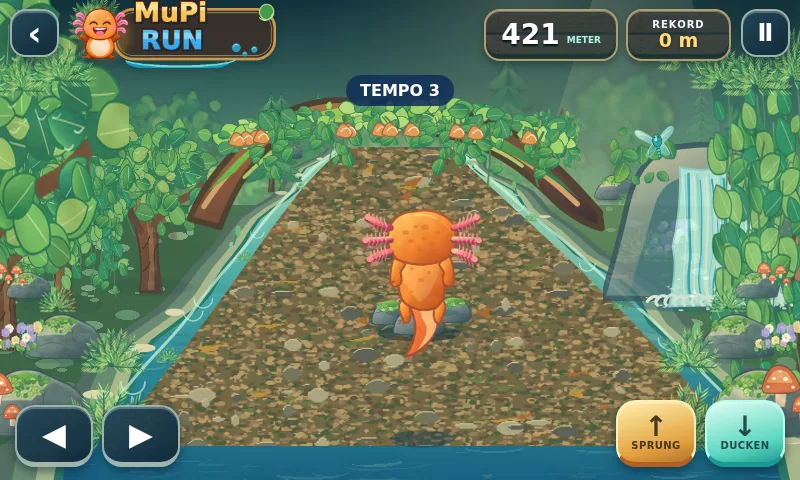
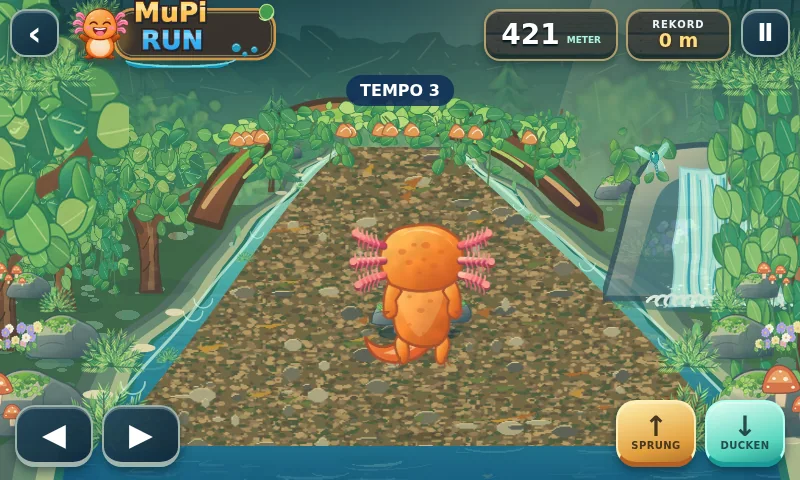
fix(mupi-run): anchor axolotl feet to terrain and animate running legs

diff --git a/examples/mupi-run/app.js b/examples/mupi-run/app.js
@@ -8,7 +8,8 @@
   // Optimized transparent local art sprites; no online assets or SVG engine needed at runtime.
   const art = Object.create(null);
   const spriteNames = [
-    'mupi-back','tree-oak','tree-fir','tree-willow','fern','flower','mushroom',
+    'mupi-back','mupi-back-run-left','mupi-back-run-right',
+    'tree-oak','tree-fir','tree-willow','fern','flower','mushroom',
     'reeds','rock','log','branch','vine','splash','stump','basket','boot','backdrop',
     'foreground','fallen-arch','waterfall','water-caustics','dragonfly',
     'duck-bridge','stepping-stones','rail-post','wood-deck','forest-earth'
@@ -279,30 +280,81 @@
       }
     }
   }
+  // Match the illustration's rear-foot contact (SVG y=339) to the world plane.
+  // Height=210 maps SVG y=339 to a bottom offset of 53.54 pixels.
+  // The old render anchored transparent SVG padding/tail to the floor
+  // and accidentally left both feet roughly 45 pixels above the ground.
+  const MUPI_HEIGHT=210;
+  const MUPI_WIDTH=172;
+  const MUPI_FOOT_BOTTOM=MUPI_HEIGHT*(455-339)/455;
   function muPi(x,foot,jump,duck,time) {
-    const bounce=jump===0&&!duck ? Math.abs(Math.sin(time*15)) * 4.2 : 0;
+    const jumping=jump>1;
+    const surface=game.terrainAt(state.distance);
+    const wave=Math.sin(time*15.2);
+    const bounce=jumping||duck||state.phase!=='running'?0:Math.abs(wave)*1.2;
     const y=foot-jump-bounce;
-    // The ground shadow stays on the stream surface during a jump.
-    const air=Math.min(1,jump/82);
-    ellipse(x,foot+4,49-air*20,12-air*4,'#173c4b78');
-    if(jump<22 && !duck && state.phase==='running') {
-      for(let i=-2;i<=2;i++){
-        const beat=(time*13.6+i*.42)%1;
-        const sx=x+i*14+Math.sin(time*13+i)*6;
-        const sy=foot-7-13*beat;
-        ellipse(sx,sy,3+beat*1.4,5+beat*2,'#e4fffbbe');
+    const elevation=Math.min(1,jump/82);
+    // Contact shadow stays on the floor; it gets narrower, softer and
+    // more transparent when MuPi actually jumps above it.
+    ctx.save();
+    ctx.globalAlpha=1-elevation*.58;
+    ellipse(x,foot+2,31-elevation*8,6-elevation*1.8,
+      surface==='river'?'#133f557a':'#2c291f83');
+    ctx.restore();
+
+    // Foot-specific environmental contact: splashing in the river;
+    // dusty puffs on the forest path; planted feet on the wooden deck.
+    const planted=x+(wave>0?19:-19);
+    if(!jumping && state.phase==='running') {
+      if(surface==='river'){
+        ctx.save();
+        ctx.strokeStyle='#d7fff2c1';
+        ctx.lineWidth=2;
+        ctx.beginPath();ctx.ellipse(x,foot+1,31+Math.abs(wave)*5,6.4,0,0,Math.PI*2);ctx.stroke();
+        const splash=Math.abs(wave);
+        for(let i=0;i<4;i++){
+          const side=i%2===0?1:-1;
+          const dx=side*(16+i*5)+Math.sin(time*9+i)*4;
+          const rise=(i*7.7+time*21)%27;
+          ellipse(planted+dx*.65,foot-2-rise*.58,1.7+(i%2),2.1+(i%3),
+            i%2?'#ecffebbe':'#98e8f1c9');
+        }
+        ctx.restore();
+      } else if(surface==='forest'){
+        for(let i=0;i<3;i++){
+          const rise=(time*14+i*8.7)%23;
+          ellipse(planted+(i-1)*10,foot-rise*.65,
+            2.8+i,2.1+i*.45,i%2?'#c4b18a7b':'#e1c89488');
+        }
+      }else{
+        ellipse(planted,foot+.7,14,2.3,'#312c2680');
       }
-      ellipse(x-13,foot-1,34,3,'#ccf9e3ad');
     }
     ctx.save();
     ctx.translate(x,y);
-    // Duck visually shortens the character, but never reveals a smiling face.
-    if(duck)ctx.scale(1,.64);
-    else if(jump===0)ctx.rotate(Math.sin(time*11)*.037);
-    drawArt('mupi-back',0,3,141,171);
+    // Compression is about the FOOT plane, so ducking never makes MuPi float.
+    if(duck)ctx.scale(1,.69);
+    else if(!jumping)ctx.rotate(wave*.018);
+    let sprite='mupi-back';
+    if(state.phase==='running'&&!duck&&!jumping){
+      sprite=wave>=0?'mupi-back-run-left':'mupi-back-run-right';
+    }
+    drawArt(sprite,0,MUPI_FOOT_BOTTOM,MUPI_WIDTH,MUPI_HEIGHT);
     ctx.restore();
+
+    // Foreground water lip partly occludes the planted feet and the curved
+    // tail; it is visibly grounded, never a detached white oval below MuPi.
+    if(!jumping && surface==='river' && state.phase==='running'){
+      ctx.save();
+      ctx.beginPath();ctx.ellipse(x,foot+4,35,6,0,Math.PI,Math.PI*2);
+      ctx.strokeStyle='#d5fff3b0';ctx.lineWidth=2.7;ctx.stroke();
+      ctx.beginPath();
+      ctx.moveTo(planted-12,foot+1);ctx.quadraticCurveTo(planted,foot-3,planted+12,foot+1);
+      ctx.strokeStyle='#f0fff6d6';ctx.lineWidth=2.0;ctx.stroke();
+      ctx.restore();
+    }
   }
-    const hazardSprites={
+  const hazardSprites={
     rock:'rock',boulder:'rock',log:'log',root:'branch',ripple:'splash',boot:'boot',
     stump:'stump',reeds:'reeds',basket:'basket','stepping-stones':'stepping-stones','low-bridge':'duck-bridge',
     branch:'branch',vine:'vine',willow:'vine'

diff --git a/tools/generate_mupi_run_sprites.py b/tools/generate_mupi_run_sprites.py
@@ -274,18 +274,28 @@ def boot():
     return b
 
 
-def back_mupi():
-    # Rear view, six gill stalks exactly: three left and three right. Tail is a real axolotl caudal fin.
-    b=ellipse(187,305,98,13,'#153d46','opacity=".25"')
-    b+=path('M182 198Q124 232 150 281Q173 320 169 356Q165 390 142 422Q186 412 209 377Q247 320 221 270Z',
+def back_mupi(step=0):
+    # Ground-contact reference: planted rear feet end at SVG y≈339.
+    # The running game anchors THAT y to the ground, not the canvas bottom.
+    # Six external feathery gill stalks remain exactly three per side.
+    b=''
+    # Curved muscular caudal fin; pulled sideways so it no longer forms
+    # a narrow third leg hanging toward the old, wrongly placed shadow.
+    b+=path('M179 205Q150 226 149 258Q140 291 108 297Q82 299 64 276Q70 319 113 329Q160 336 192 309Q236 273 224 241Q216 220 207 209Z',
             'url(#tail)','#a84f32',6)
-    b+=path('M190 230Q171 294 199 344Q203 367 175 404Q225 370 227 330Q228 276 208 236Z',
+    b+=path('M178 227Q157 253 157 275Q147 298 103 310Q146 321 181 293Q207 274 198 241Z',
             '#ffdb9b',extra='opacity=".68"')
-    b+=path('M180 319Q199 328 197 345M177 343Q192 357 184 368M173 372Q184 377 175 392','none','#d46735',4,'opacity=".52"')
-    # two backward-pointing feet
+    b+=path('M153 276Q166 285 158 296M130 304Q150 305 164 299M95 313Q113 323 130 320','none','#d46735',4,'opacity=".52"')
+    # Alternating planted and raised feet give a real walk/run cycle.
+    # step is -1/0/1; the planted foot always ends at y≈341.
     for side in [-1,1]:
+        lifted=(step!=0 and side==step)
+        dy=-27 if lifted else 2
+        dx=side*(11 if lifted else -2)
+        b+=f'<g transform="translate({dx} {dy})">'
         b+=path(f'M{188+side*53} 271Q{188+side*70} 283 {188+side*52} 321Q{188+side*47} 339 {188+side*35} 328Q{188+side*27} 311 {188+side*34} 287Z','url(#orange)','#a95632',5)
         b+=path(f'M{188+side*50} 318l{side*12} 17m{-side*12} -17l{side*1} 20','none','#a95632',3)
+        b+='</g>'
     # four-limbed salamander body
     b+=path('M124 198Q113 155 133 122Q153 99 185 111Q229 98 246 129Q267 172 246 217Q254 272 222 293Q184 304 151 285Q121 271 124 198Z',
             'url(#orange)','#a9542f',6)
@@ -385,6 +395,8 @@ def make_cover():
 def main():
     sprites=[
       ('mupi-back',375,455,back_mupi()),
+      ('mupi-back-run-left',375,455,back_mupi(-1)),
+      ('mupi-back-run-right',375,455,back_mupi(1)),
       ('tree-oak',345,350,oak()),
       ('tree-fir',275,330,fir()),
       ('tree-willow',360,350,willow()),

diff --git a/tests/mupi_run_sprite_test.py b/tests/mupi_run_sprite_test.py
@@ -1,0 +1,30 @@
+#!/usr/bin/env python3
+"""Regression checks for MuPi Run grounded rear-view mascot animation."""
+from pathlib import Path
+from PIL import Image, ImageChops
+
+ROOT=Path(__file__).resolve().parents[1]
+ART=ROOT/'examples/mupi-run/art'
+NAMES=('mupi-back','mupi-back-run-left','mupi-back-run-right')
+images=[]
+for name in NAMES:
+    image=Image.open(ART/(name+'.png')).convert('RGBA')
+    assert image.size==(375,455),f'{name}: source dimensions changed'
+    box=image.getchannel('A').getbbox()
+    assert box and 332<=box[3]<=349,f'{name}: feet/tail extend below ground anchor: {box}'
+    # Transparent space below the feet cannot be used as the ground origin.
+    assert image.getchannel('A').crop((0,360,375,455)).getbbox() is None
+    images.append(image)
+
+for image in images[1:]:
+    assert ImageChops.difference(image,images[0]).getbbox(), 'Missing moving leg pose'
+
+# Foot support is calibrated from source y=339, not the image's bottom y=455.
+source_h=455
+drawn_h=210
+foot_source_y=339
+bottom_offset=drawn_h*(source_h-foot_source_y)/source_h
+world_foot=435
+rendered_foot=world_foot+bottom_offset-drawn_h*(source_h-foot_source_y)/source_h
+assert abs(rendered_foot-world_foot)<.001
+print('MuPi foot anchoring and two distinct running poses: PASS')

diff --git a/tools/capture_mupi_run_screenshots.py b/tools/capture_mupi_run_screenshots.py
@@ -97,6 +97,8 @@ async def main():
             await capture('screenshot-duck-bridge.webp')
             await scene(260,[{'lane':0,'item':'stump','kind':'avoid','z':25}],1,'running')
             await capture('screenshot-boardwalk.webp')
+            await scene(248,[],0,'running')
+            await capture('screenshot-ground-contact.webp')
             await scene(418,[{'lane':0,'item':'stepping-stones','kind':'jump','z':26}],0,'jump')
             await capture('screenshot-forest.webp')
             result=await call('Runtime.evaluate',{'expression':'JSON.stringify({phase:window.MuPiRun && document.querySelector("#overlay").classList.contains("hidden"),score:document.querySelector("#distance").textContent,loaded:document.querySelector("#world").width})','returnByValue':True})

diff --git a/tools/generate_mupi_run_atmosphere.py b/tools/generate_mupi_run_atmosphere.py
@@ -300,7 +300,8 @@ def make_cover():
 
 def texture_sprites():
     # Multiscale low-amplitude canvas paper texture, slightly stronger in bright highlights.
-    names=['mupi-back','tree-oak','tree-fir','tree-willow','fern','rock','log','branch',
+    names=['mupi-back','mupi-back-run-left','mupi-back-run-right',
+           'tree-oak','tree-fir','tree-willow','fern','rock','log','branch',
            'vine','flower','mushroom','reeds','splash','stump','basket','boot']
     rr=random.Random(806)
     for name in names:

diff --git a/examples/mupi-run/README.md b/examples/mupi-run/README.md
@@ -1,4 +1,4 @@
-# MuPi Run – spielbarer Wald-/Brücken-Runner (0.4.0)
+# MuPi Run – spielbarer Wald-/Brücken-Runner (0.4.1)
 
 Eigenständige, vollständig offline spielbare MuPiBox-NG-Community-App für **800 × 480 Pixel** (5 Zoll). MuPi läuft aus der **Rückansicht** durch ein flaches, sich windendes Wald-Flussbett: ein orangefarbenes Axolotl mit exakt **drei Kiemenästen links und drei rechts**, eigenem Schweif und Lauf-/Sprung-/Duckanimation. Es gibt keine Fremdspiele, gekauften Assets, CDN- oder Online-Abhängigkeiten.
 
@@ -12,6 +12,8 @@ Die Aufnahmen liegen bewusst **direkt im Anwendungsverzeichnis**.
 
 ![Begehbarer Holzsteg mit Geländer und Hindernissen](screenshot-boardwalk.webp)
 
+![MuPi mit sichtbarem Fußkontakt auf Holzplanken](screenshot-ground-contact.webp)
+
 ![Waldpfad mit Erde und Sprungsteinen](screenshot-forest.webp)
 
 ![MuPi Run beim Sprung über das Flussbett](screenshot-jump.webp)
@@ -24,7 +26,7 @@ Die Screenshots wurden aus dem **wirklich laufenden HTML-Canvas-Spiel** mit Chro
 
 Die Illustrationen sind **eigenständige, freigestellte** PNG-Sprites (transparentes Alpha) und werden als perspektivisch skalierte einzelne Elemente in den Game-Canvas eingesetzt. Sie sind **keine einfachen Canvas-Kreise oder -Rechtecke**:
 
-- **MuPi-Rückansicht:** `art/mupi-back.png`, orangefarbene Haut, Rückenflecken, fransige Kiemen (3 je Seite), Schwanzflosse, Beine und Arme. Kein Gesicht, weil die Kamera hinter MuPi folgt.
+- **MuPi-Rückansicht:** `art/mupi-back.png`, orangefarbene Haut, Rückenflecken, fransige Kiemen (3 je Seite), Schwanzflosse, Beine und Arme. Kein Gesicht, weil die Kamera hinter MuPi folgt. Seit v0.4.1 mit zwei zusätzlichen Bein-/Laufposen `mupi-back-run-left.png` und `mupi-back-run-right.png`. Die Sprite-Füße (Quellpixel y≈339 von 455) sind im Canvas exakt an der Bodenebene verankert; nicht der transparente untere Bildrand. Schwanzflosse seitlich geführt, Bodenschatten direkt unter den Füßen. Wasser-Spritzer nur bei realem Bodenkontakt, auf Waldboden kleine Staubpartikel, auf Holzstegen Tritt-Schatten.
 - **Wald:** Laubbaum, Nadelbaum, Hängeweide, Farn, Schilf, Blumen, Pilze. Mehrschichtiger Waldhintergrund und Sonnenstrahlen.
 - **Fluss:** Organisch gewundenes Wasserbett, transparente animierte Wassertextur mit Lichtbrechung, eingetauchte Steine, weiße Schaumlinien am Ufer und Sonnenreflexe.
 - **Landschaft:** Illustrierter Baumstamm-Bogen, seitlicher Wasserfall, sonnige und schattige Waldschichten, Vordergrundkulisse und schwebende Libelle (keine zusätzlichen Kollisionen).
@@ -74,6 +76,7 @@ python3 tools/build_mupi_run.py
 python3 tools/mupiapp.py validate dist/mupi-run.mupiapp
 node --check examples/mupi-run/app.js
 node --test tests/mupi_run.test.cjs
+python3 tests/mupi_run_sprite_test.py
 python3 tools/capture_mupi_run_screenshots.py
 ```
 
